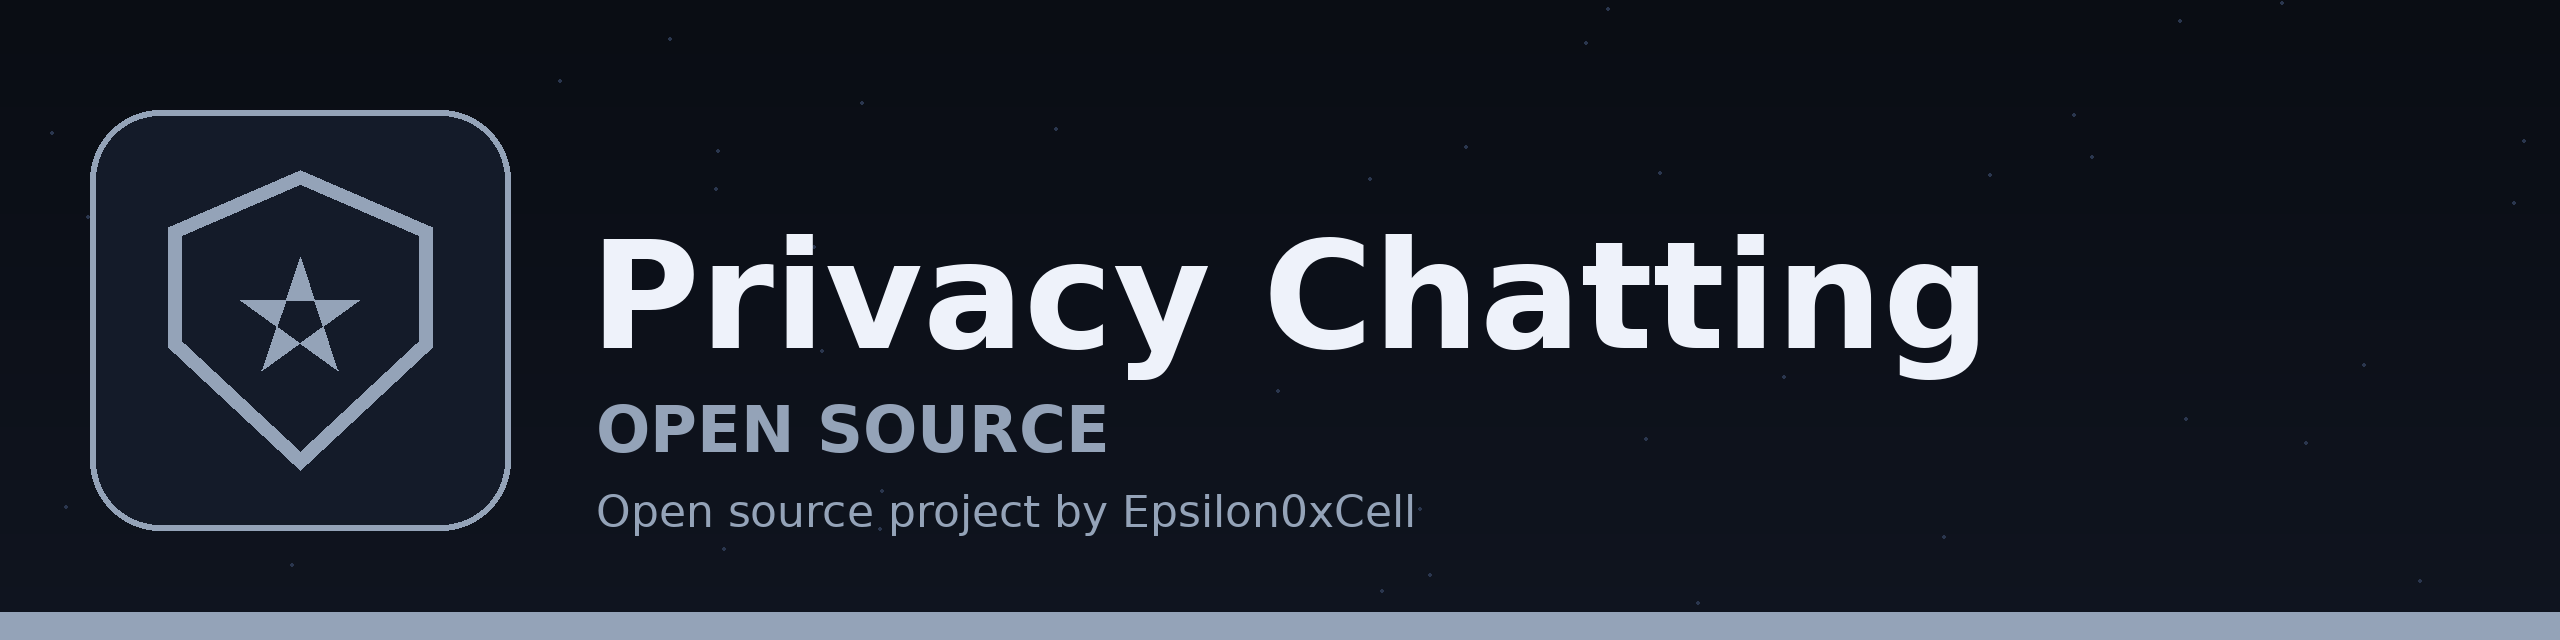
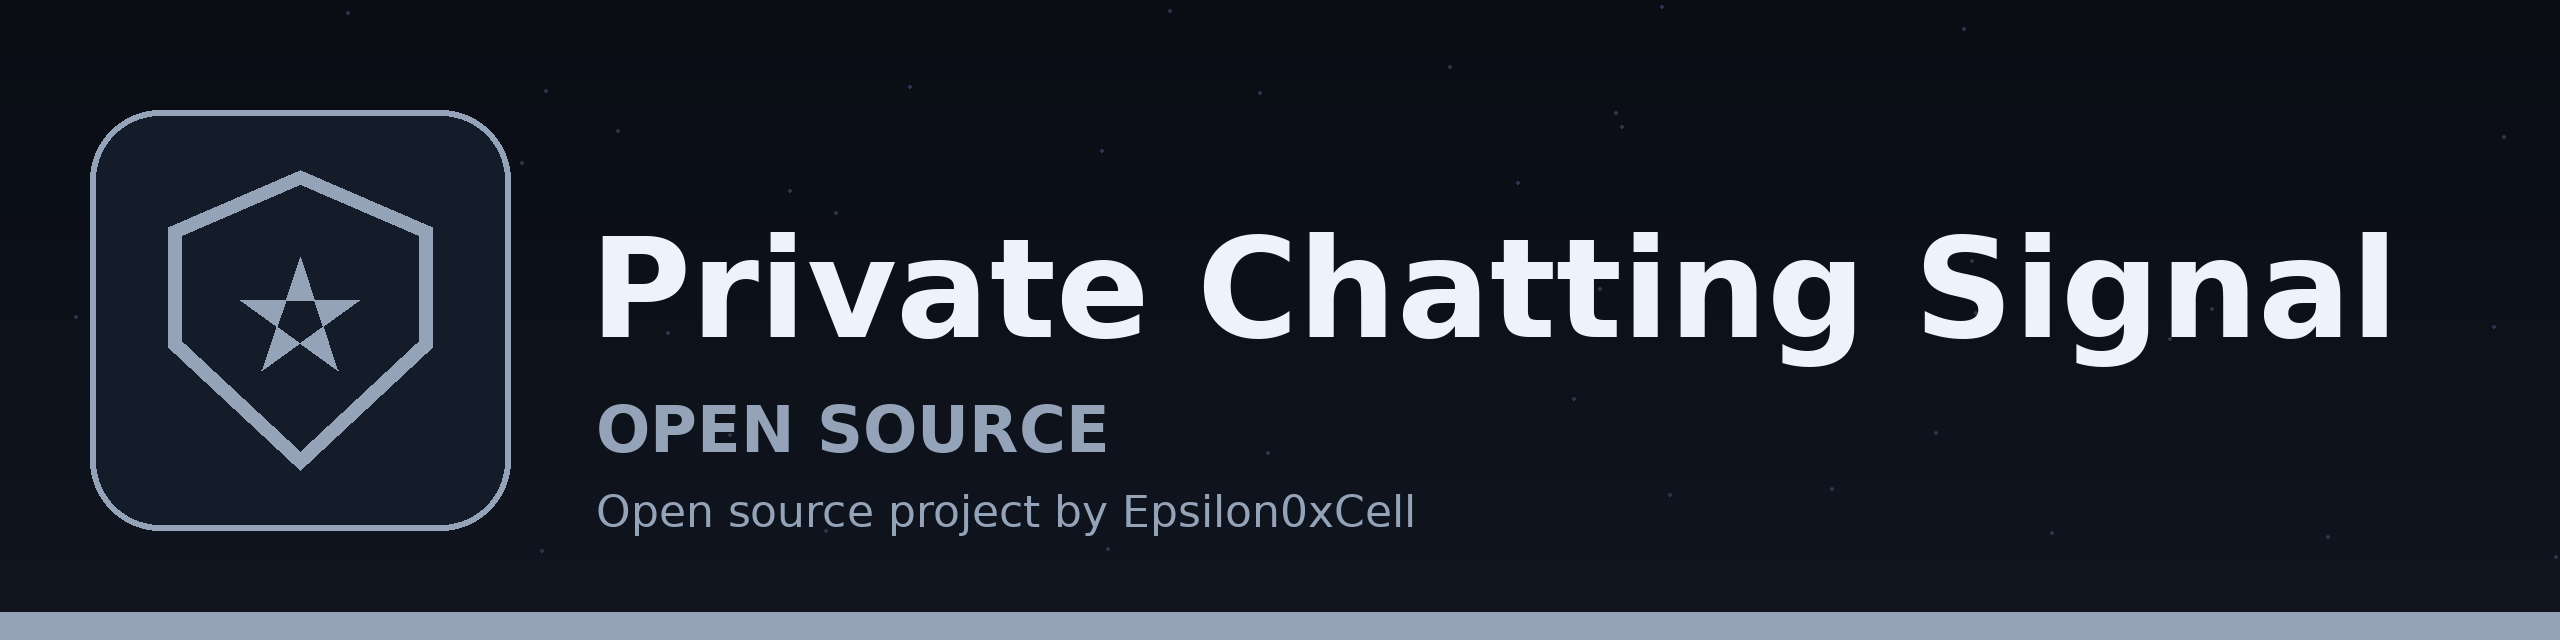
Update name to Private-Chatting-Signal: README title and branding

Changed region(s): [[0.2188, 0.3438, 0.9375, 0.5938]]

diff --git a/README.md b/README.md
@@ -1,6 +1,6 @@
 ![Banner](banner.png)
 
-# Privacy-Chatting
+# Private-Chatting-Signal
 ```
 https://signal.org/#signal
 ```
